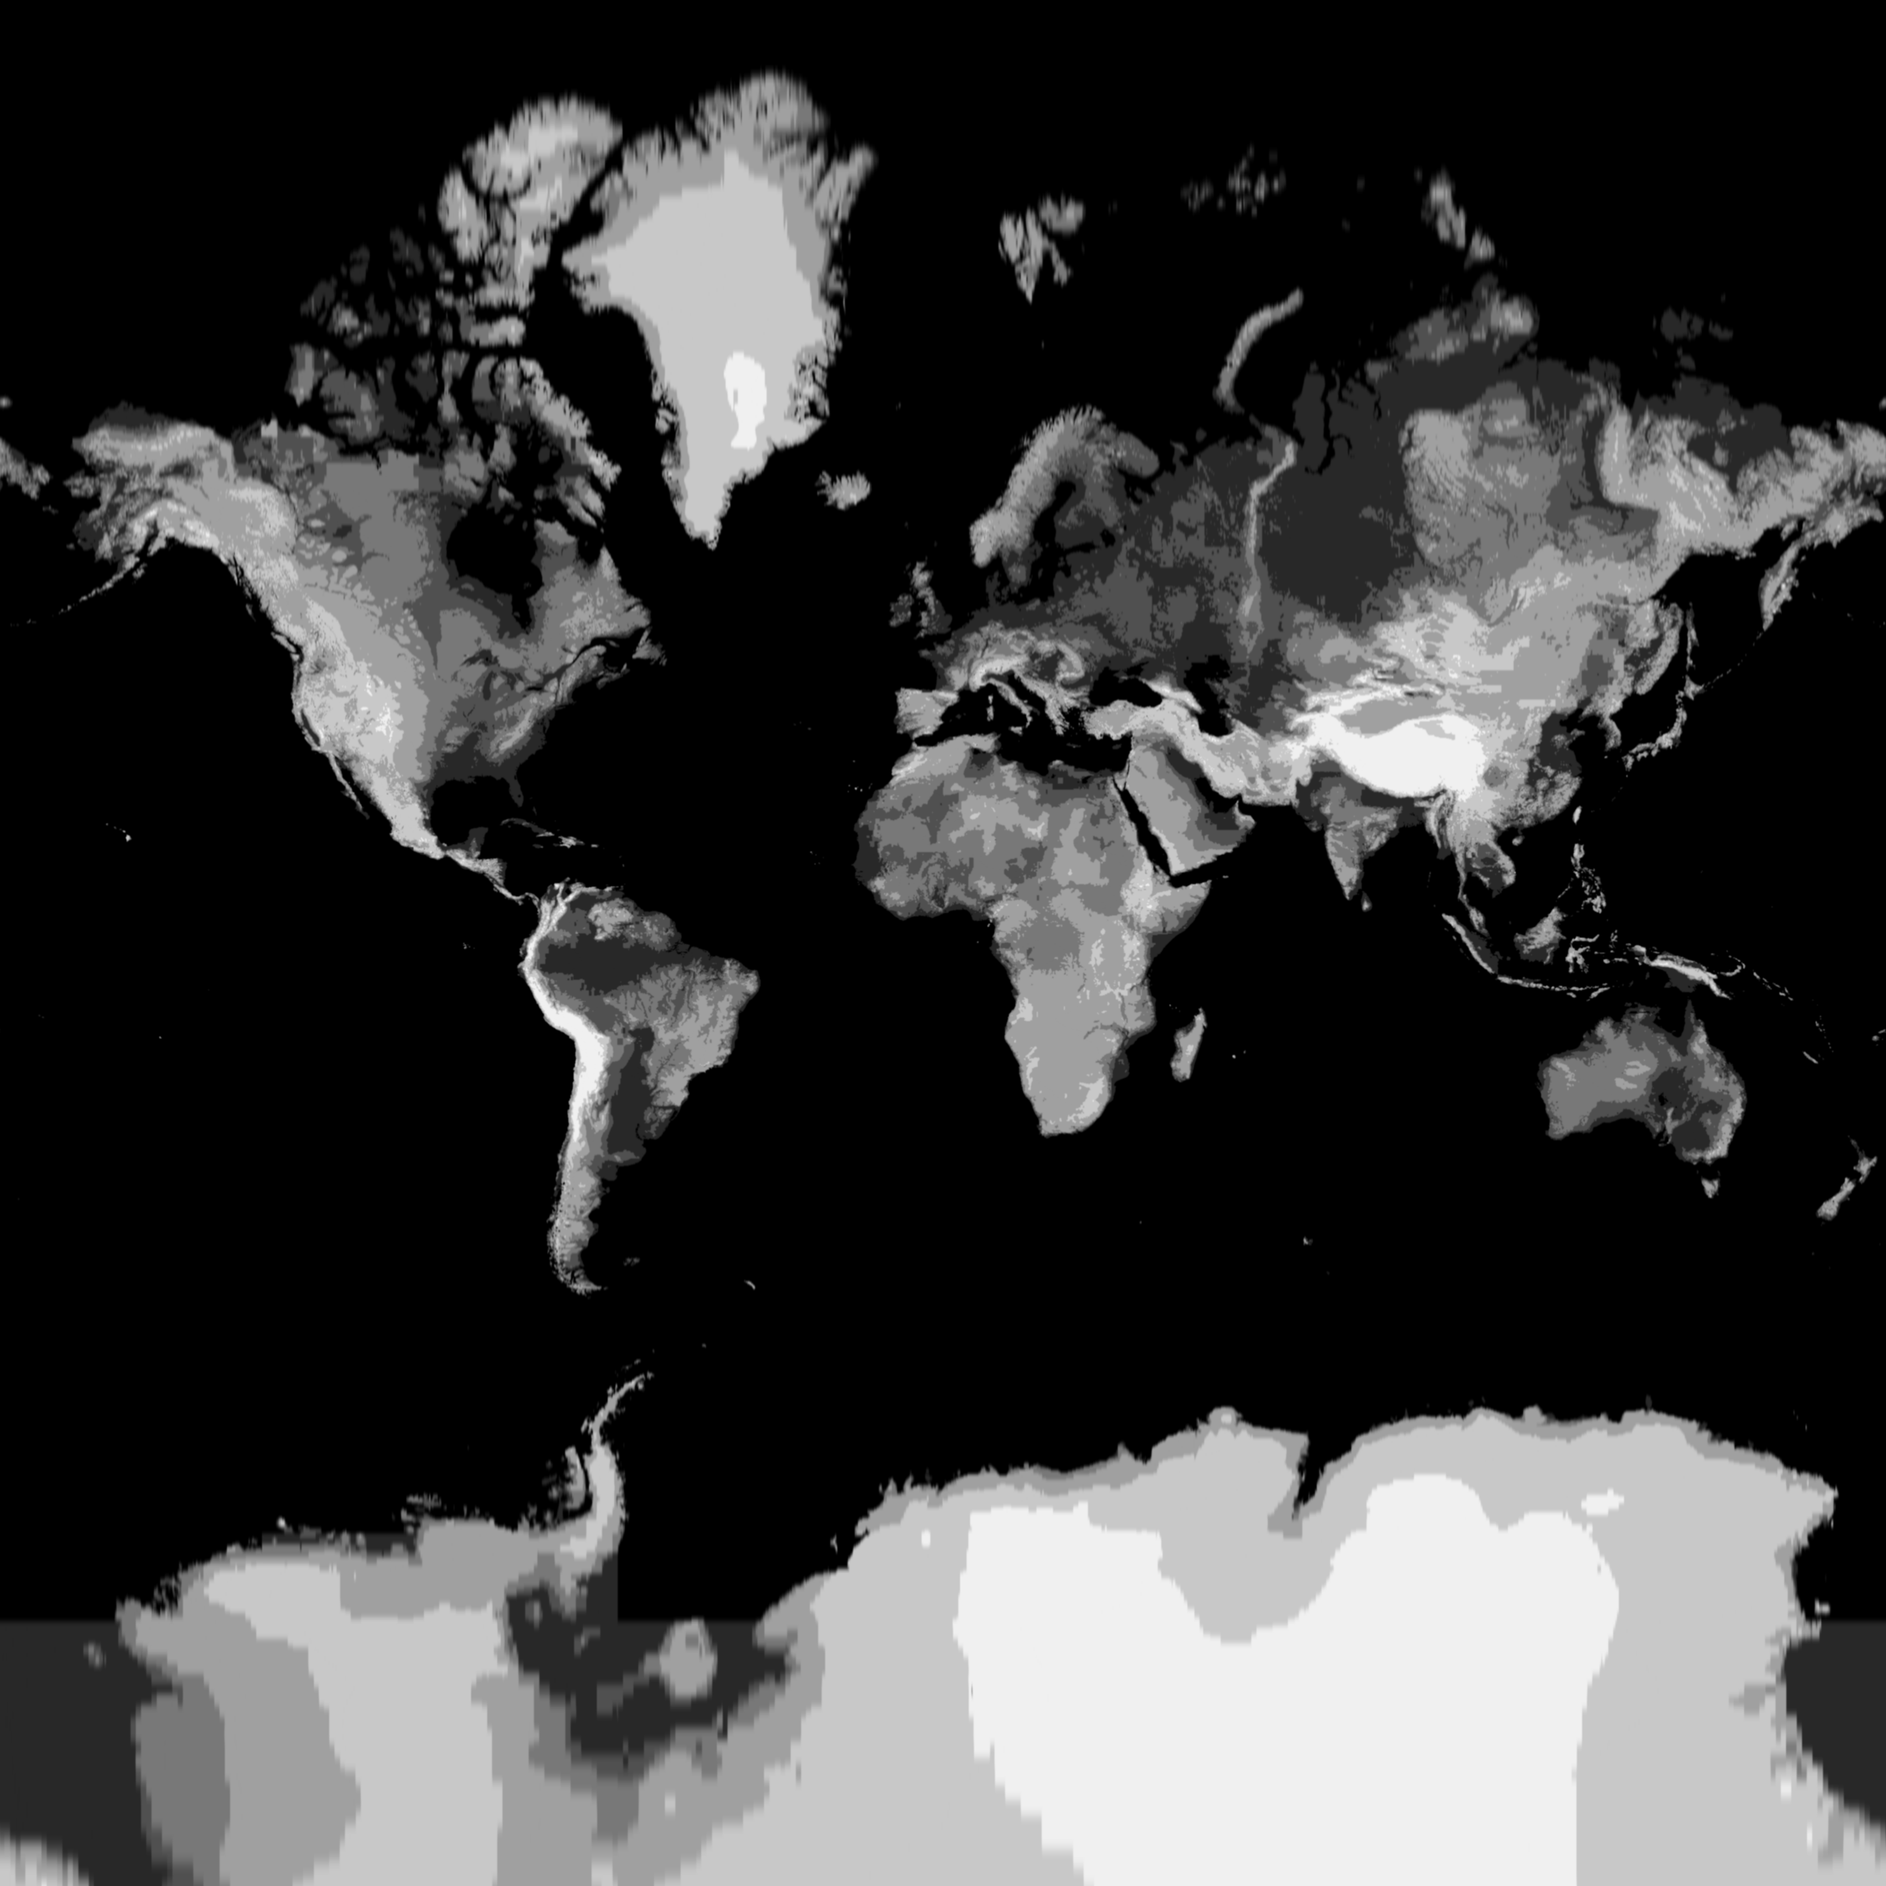
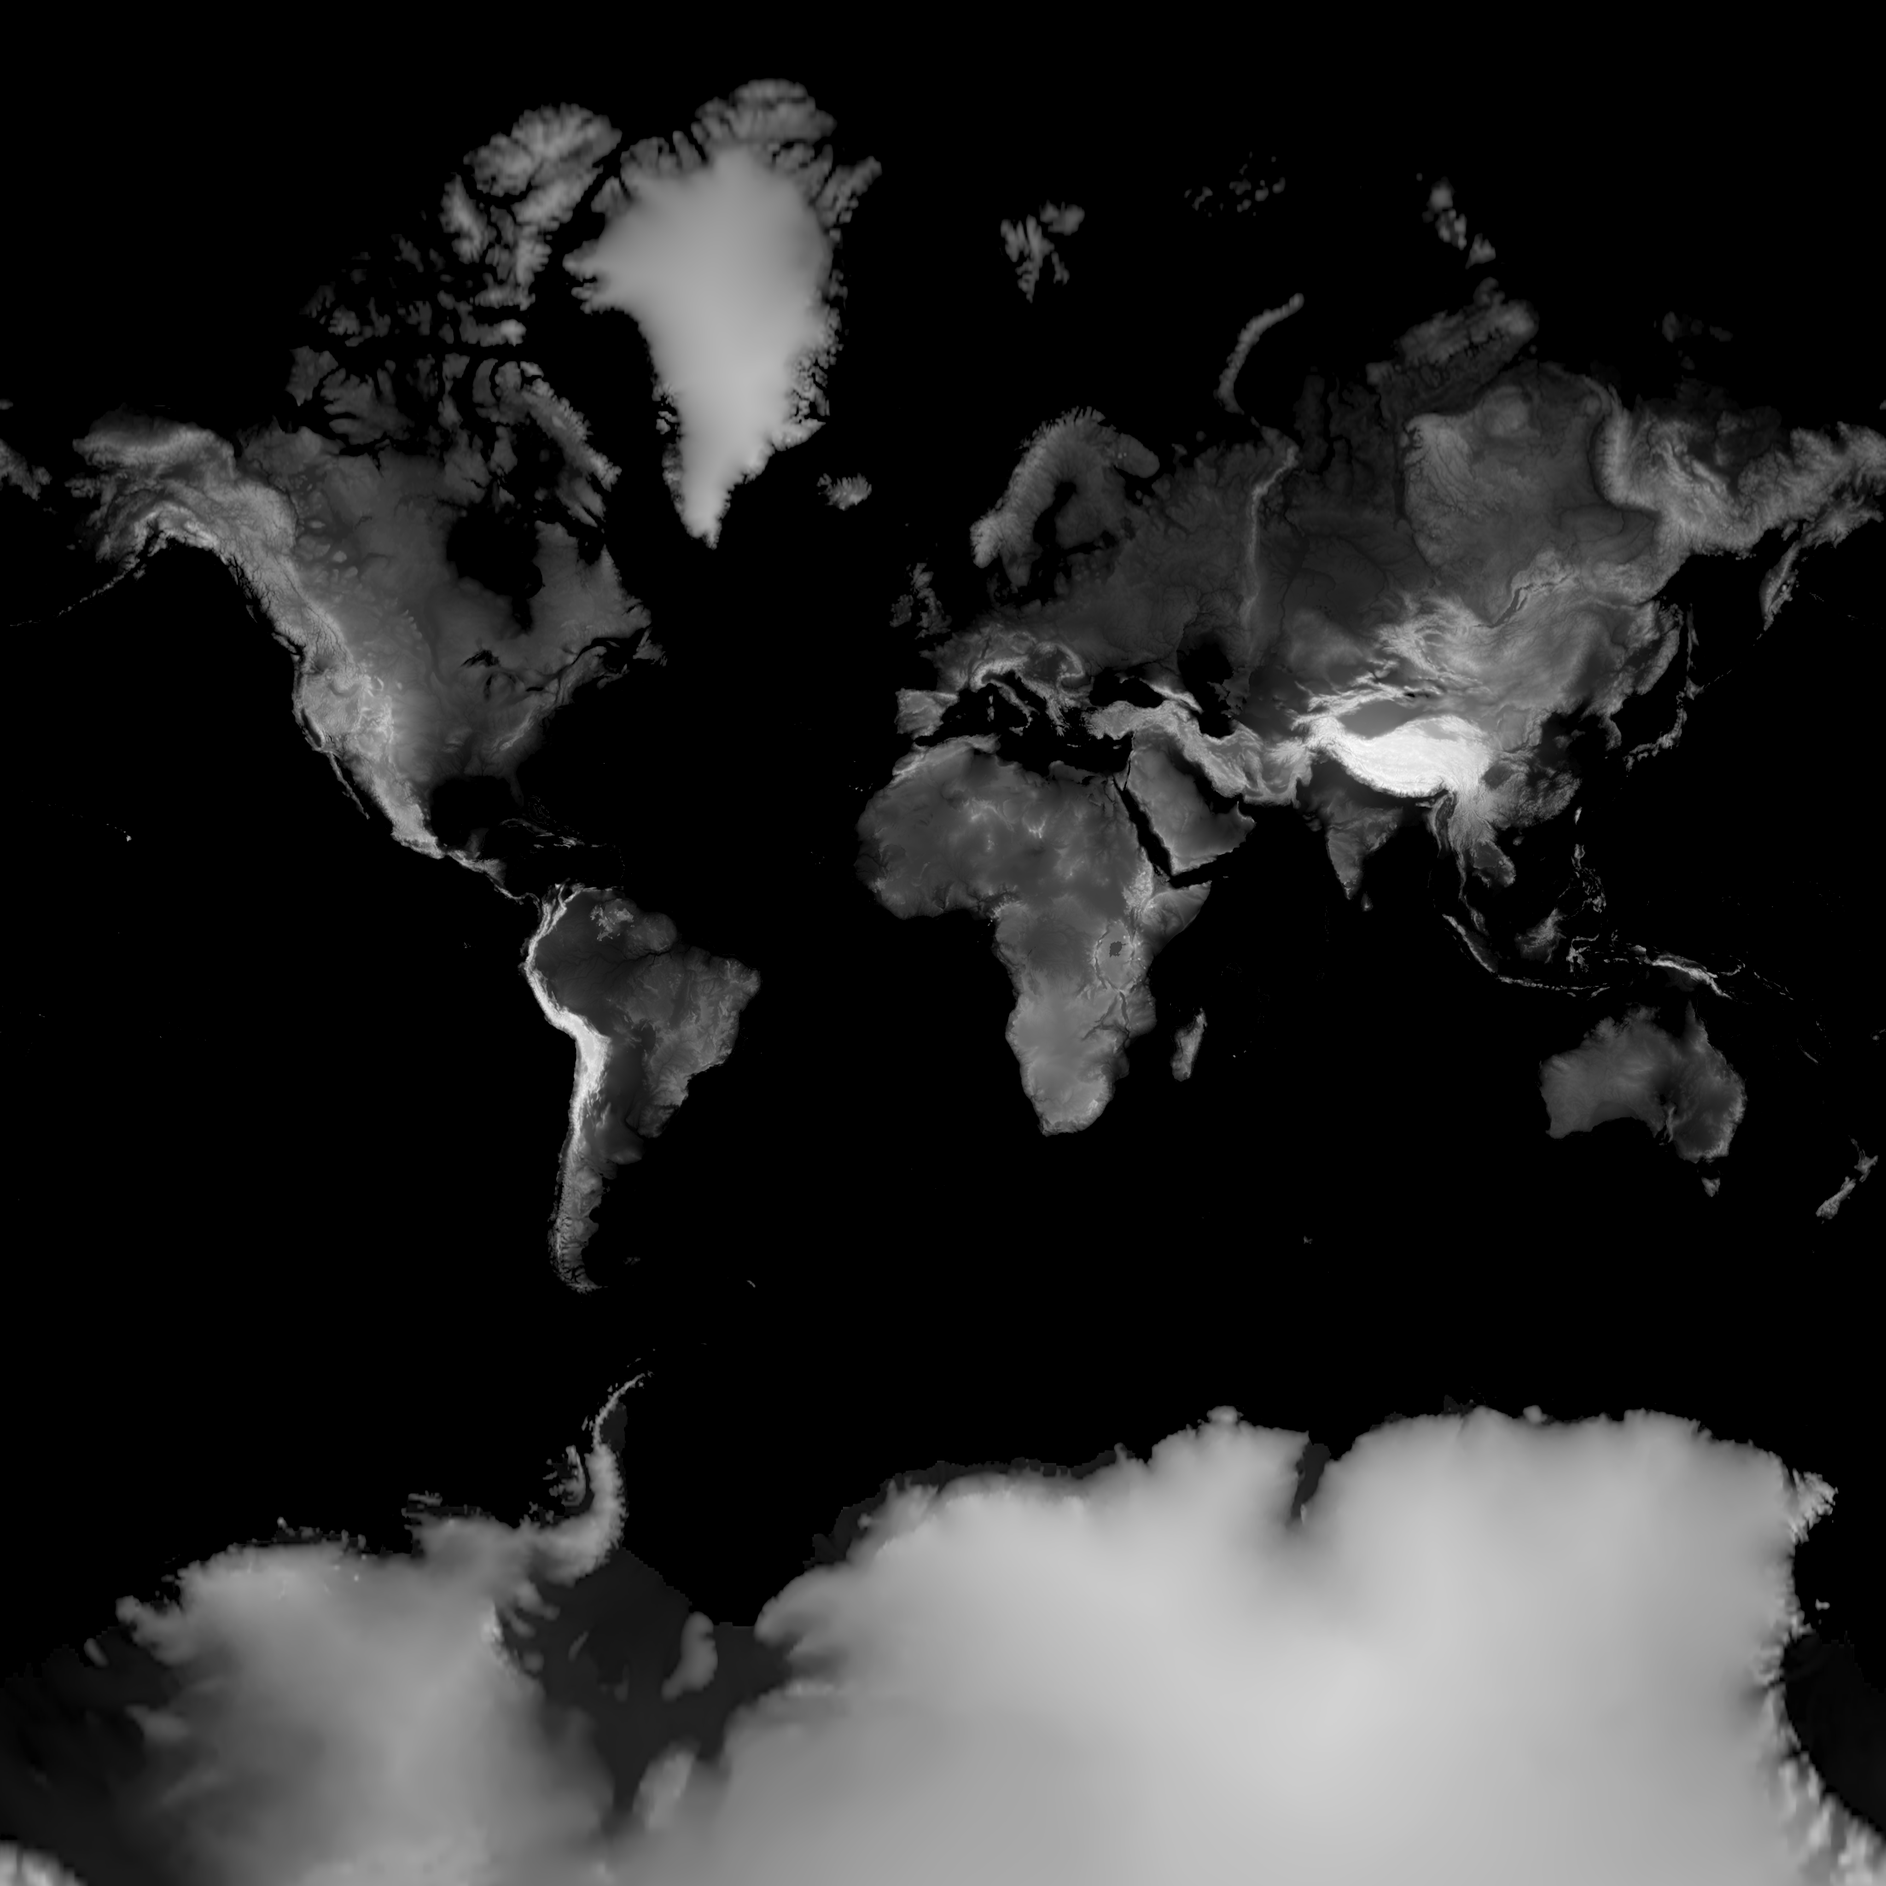
Add files via upload

diff --git a/public/index.html b/public/index.html
@@ -82,14 +82,14 @@
 </head>
 <body>
 <header class="top">
-  <a class="brand" href="/" id="brand"><svg class="logo" width="32" height="32" viewBox="0 0 64 64" fill="none" stroke-linecap="round" stroke-linejoin="round" aria-hidden="true"><circle cx="32" cy="32" r="28.5" stroke="currentColor" stroke-width="2.4"/> <path d="M6.5 25 Q32 31 57.5 25 M6 41 Q32 47 58 41 M32 3.5 Q21 32 32 60.5" stroke="currentColor" stroke-width="1.2" opacity=".3"/> <path d="M32 3.5 l-2.4 5 h4.8 z" fill="currentColor" stroke="none"/> <path d="M30 52 C31.5 46 33.5 42 33.5 37 C33.5 31.5 26 28 18.5 21.5" stroke="currentColor" stroke-width="3.6"/> <path d="M33.3 38 C36 31.5 40 25.5 44.5 19" stroke="currentColor" stroke-width="3.2"/> <path d="M38.6 28.5 C43.5 29 47.5 31.5 49.5 35.5" stroke="currentColor" stroke-width="2.6"/> <circle cx="30" cy="52.5" r="5.2" fill="#9B2F1F" stroke="none"/> <circle cx="17.5" cy="20.5" r="3.9" fill="currentColor" stroke="none"/> <circle cx="46" cy="16.8" r="3.9" fill="var(--logo-bg, #EFE6CF)" stroke="currentColor" stroke-width="2.4"/> <circle cx="50" cy="36.5" r="2.9" fill="currentColor" stroke="none"/></svg> MapHeritage</a>
+  <a class="brand" href="/" id="brand"><svg class="logo" width="30" height="30" viewBox="0 0 64 64" fill="none" stroke-linecap="round" stroke-linejoin="round" aria-hidden="true"><path d="M12 50 L19 14 L32 38 L45 14 L52 50" stroke="currentColor" stroke-width="6"/><circle cx="12" cy="50" r="6.5" fill="#9B2F1F"/></svg> MapHeritage</a>
   <button class="langbtn" type="button" data-lang-toggle>RU</button>
   <nav><a class="hide-sm" href="#story" data-i18n="f.title">How it began</a><a class="hide-sm" href="/plans" data-i18n="pl.title">Plans</a><a class="btn small primary" href="/create" data-i18n="nav.create">Create a map</a></nav>
 </header>
 <section class="hero">
   <div class="hero-head">
     <div class="hero-title"><h1><span data-i18n="hero.t1">Every family has</span> <span data-i18n="hero.t2">its own geography.</span></h1></div>
-    <div class="hero-lead"><p data-i18n="hero.lead"></p>
+    <div class="hero-lead"><p data-i18n="hero.lead" data-fit="reserve"></p>
       <div class="acts"><a class="btn big primary" href="/create" data-i18n="hero.cta">Make your family’s map</a><a class="linkbtn" href="#story" data-i18n="hero.cta2">How it began</a></div></div>
   </div>
 </section>
@@ -124,7 +124,7 @@
   </div></section>
   <section class="final"><div class="wrap"><h2 data-i18n="final.title"></h2><a class="btn big primary" href="/create" data-i18n="hero.cta"></a><p data-i18n="final.note"></p></div></section>
 </main>
-<footer class="sitefoot"><span>© MapHeritage · <a href="/plans" data-i18n="pl.title">Plans</a> · <a href="/impressum" data-i18n="legal.impressum">Impressum</a> · <a href="/datenschutz" data-i18n="legal.privacy">Privacy</a> · <a href="/agb" data-i18n="legal.terms">Terms</a></span><span data-i18n="footer.base">Base map: Natural Earth, ETOPO5 (NOAA)</span></footer>
+<footer class="sitefoot"><span>© MapHeritage · <a href="/plans" data-i18n="pl.title">Plans</a> · <a href="/impressum" data-i18n="legal.impressum">Impressum</a> · <a href="/datenschutz" data-i18n="legal.privacy">Privacy</a> · <a href="/agb" data-i18n="legal.terms">Terms</a></span><span data-i18n="footer.base">Base map: Natural Earth, ETOPO1 (NOAA)</span></footer>
 <script src="/vendor/leaflet/leaflet.js"></script>
 <script src="/assets/i18n.js"></script>
 <script src="/assets/fit.js"></script>

diff --git a/public/plans.html b/public/plans.html
@@ -25,7 +25,7 @@
 </style>
 </head>
 <body>
-<header class="top"><a class="brand" href="/"><svg class="logo" width="32" height="32" viewBox="0 0 64 64" fill="none" stroke-linecap="round" stroke-linejoin="round" aria-hidden="true"><circle cx="32" cy="32" r="28.5" stroke="currentColor" stroke-width="2.4"/> <path d="M6.5 25 Q32 31 57.5 25 M6 41 Q32 47 58 41 M32 3.5 Q21 32 32 60.5" stroke="currentColor" stroke-width="1.2" opacity=".3"/> <path d="M32 3.5 l-2.4 5 h4.8 z" fill="currentColor" stroke="none"/> <path d="M30 52 C31.5 46 33.5 42 33.5 37 C33.5 31.5 26 28 18.5 21.5" stroke="currentColor" stroke-width="3.6"/> <path d="M33.3 38 C36 31.5 40 25.5 44.5 19" stroke="currentColor" stroke-width="3.2"/> <path d="M38.6 28.5 C43.5 29 47.5 31.5 49.5 35.5" stroke="currentColor" stroke-width="2.6"/> <circle cx="30" cy="52.5" r="5.2" fill="#9B2F1F" stroke="none"/> <circle cx="17.5" cy="20.5" r="3.9" fill="currentColor" stroke="none"/> <circle cx="46" cy="16.8" r="3.9" fill="var(--logo-bg, #EFE6CF)" stroke="currentColor" stroke-width="2.4"/> <circle cx="50" cy="36.5" r="2.9" fill="currentColor" stroke="none"/></svg> MapHeritage</a><button class="langbtn" type="button" data-lang-toggle>RU</button><a class="btn small primary" href="/create" data-i18n="nav.create">Create a map</a></header>
+<header class="top"><a class="brand" href="/"><svg class="logo" width="30" height="30" viewBox="0 0 64 64" fill="none" stroke-linecap="round" stroke-linejoin="round" aria-hidden="true"><path d="M12 50 L19 14 L32 38 L45 14 L52 50" stroke="currentColor" stroke-width="6"/><circle cx="12" cy="50" r="6.5" fill="#9B2F1F"/></svg> MapHeritage</a><button class="langbtn" type="button" data-lang-toggle>RU</button><a class="btn small primary" href="/create" data-i18n="nav.create">Create a map</a></header>
 <main>
   <h1 data-i18n="pl.title">Plans</h1>
   <div class="plans">
@@ -36,7 +36,7 @@
   </div>
   <p class="privacy"><b data-i18n="p.title"></b>. <span data-i18n="p.1"></span> <span data-i18n="p.2"></span></p>
 </main>
-<footer class="sitefoot"><span>© MapHeritage · <a href="/plans" data-i18n="pl.title">Plans</a> · <a href="/impressum" data-i18n="legal.impressum">Impressum</a> · <a href="/datenschutz" data-i18n="legal.privacy">Privacy</a> · <a href="/agb" data-i18n="legal.terms">Terms</a></span><span data-i18n="footer.base">Base map: Natural Earth, ETOPO5 (NOAA)</span></footer>
+<footer class="sitefoot"><span>© MapHeritage · <a href="/plans" data-i18n="pl.title">Plans</a> · <a href="/impressum" data-i18n="legal.impressum">Impressum</a> · <a href="/datenschutz" data-i18n="legal.privacy">Privacy</a> · <a href="/agb" data-i18n="legal.terms">Terms</a></span><span data-i18n="footer.base">Base map: Natural Earth, ETOPO1 (NOAA)</span></footer>
 <script src="/assets/i18n.js"></script>
 <script src="/assets/fit.js"></script><script src="/assets/account.js"></script>
 <script src="/assets/plans.js"></script>

diff --git a/public/m.html b/public/m.html
@@ -35,7 +35,7 @@
 </head>
 <body>
 <header class="top">
-  <a class="brand" href="/"><svg class="logo" width="32" height="32" viewBox="0 0 64 64" fill="none" stroke-linecap="round" stroke-linejoin="round" aria-hidden="true"><circle cx="32" cy="32" r="28.5" stroke="currentColor" stroke-width="2.4"/> <path d="M6.5 25 Q32 31 57.5 25 M6 41 Q32 47 58 41 M32 3.5 Q21 32 32 60.5" stroke="currentColor" stroke-width="1.2" opacity=".3"/> <path d="M32 3.5 l-2.4 5 h4.8 z" fill="currentColor" stroke="none"/> <path d="M30 52 C31.5 46 33.5 42 33.5 37 C33.5 31.5 26 28 18.5 21.5" stroke="currentColor" stroke-width="3.6"/> <path d="M33.3 38 C36 31.5 40 25.5 44.5 19" stroke="currentColor" stroke-width="3.2"/> <path d="M38.6 28.5 C43.5 29 47.5 31.5 49.5 35.5" stroke="currentColor" stroke-width="2.6"/> <circle cx="30" cy="52.5" r="5.2" fill="#9B2F1F" stroke="none"/> <circle cx="17.5" cy="20.5" r="3.9" fill="currentColor" stroke="none"/> <circle cx="46" cy="16.8" r="3.9" fill="var(--logo-bg, #EFE6CF)" stroke="currentColor" stroke-width="2.4"/> <circle cx="50" cy="36.5" r="2.9" fill="currentColor" stroke="none"/></svg> MapHeritage</a>
+  <a class="brand" href="/"><svg class="logo" width="30" height="30" viewBox="0 0 64 64" fill="none" stroke-linecap="round" stroke-linejoin="round" aria-hidden="true"><path d="M12 50 L19 14 L32 38 L45 14 L52 50" stroke="currentColor" stroke-width="6"/><circle cx="12" cy="50" r="6.5" fill="#9B2F1F"/></svg> MapHeritage</a>
   <button class="langbtn" type="button" data-lang-toggle>RU</button>
   <div class="acts" id="acts">
     <button class="btn small primary" id="play" type="button" data-i18n="btn.play">Play journey</button>
@@ -51,7 +51,7 @@
 <section class="chron" id="chron" hidden><h2 data-i18n="chronicle">Chronicle</h2><div class="people" id="people"></div></section>
 <div class="cta"><p data-i18n="cta.own">Make a chart of your own family.</p><a class="btn big" href="/create" data-i18n="hero.cta">Create your map</a></div>
 <div class="toast" id="toast" role="status"></div>
-<footer class="sitefoot"><span>© MapHeritage · <a href="/plans" data-i18n="pl.title">Plans</a> · <a href="/impressum" data-i18n="legal.impressum">Impressum</a> · <a href="/datenschutz" data-i18n="legal.privacy">Privacy</a> · <a href="/agb" data-i18n="legal.terms">Terms</a></span><span data-i18n="footer.base">Base map: Natural Earth, ETOPO5 (NOAA)</span></footer>
+<footer class="sitefoot"><span>© MapHeritage · <a href="/plans" data-i18n="pl.title">Plans</a> · <a href="/impressum" data-i18n="legal.impressum">Impressum</a> · <a href="/datenschutz" data-i18n="legal.privacy">Privacy</a> · <a href="/agb" data-i18n="legal.terms">Terms</a></span><span data-i18n="footer.base">Base map: Natural Earth, ETOPO1 (NOAA)</span></footer>
 <script src="/vendor/leaflet/leaflet.js"></script>
 <script src="/assets/i18n.js"></script>
 <script src="/assets/basemap.js"></script>

diff --git a/public/reset.html b/public/reset.html
@@ -14,7 +14,7 @@
 </style>
 </head>
 <body>
-<header class="top"><a class="brand" href="/"><svg class="logo" width="32" height="32" viewBox="0 0 64 64" fill="none" stroke-linecap="round" stroke-linejoin="round" aria-hidden="true"><circle cx="32" cy="32" r="28.5" stroke="currentColor" stroke-width="2.4"/> <path d="M6.5 25 Q32 31 57.5 25 M6 41 Q32 47 58 41 M32 3.5 Q21 32 32 60.5" stroke="currentColor" stroke-width="1.2" opacity=".3"/> <path d="M32 3.5 l-2.4 5 h4.8 z" fill="currentColor" stroke="none"/> <path d="M30 52 C31.5 46 33.5 42 33.5 37 C33.5 31.5 26 28 18.5 21.5" stroke="currentColor" stroke-width="3.6"/> <path d="M33.3 38 C36 31.5 40 25.5 44.5 19" stroke="currentColor" stroke-width="3.2"/> <path d="M38.6 28.5 C43.5 29 47.5 31.5 49.5 35.5" stroke="currentColor" stroke-width="2.6"/> <circle cx="30" cy="52.5" r="5.2" fill="#9B2F1F" stroke="none"/> <circle cx="17.5" cy="20.5" r="3.9" fill="currentColor" stroke="none"/> <circle cx="46" cy="16.8" r="3.9" fill="var(--logo-bg, #EFE6CF)" stroke="currentColor" stroke-width="2.4"/> <circle cx="50" cy="36.5" r="2.9" fill="currentColor" stroke="none"/></svg><span>MapHeritage</span></a><button class="langbtn" type="button" data-lang-toggle>RU</button></header>
+<header class="top"><a class="brand" href="/"><svg class="logo" width="30" height="30" viewBox="0 0 64 64" fill="none" stroke-linecap="round" stroke-linejoin="round" aria-hidden="true"><path d="M12 50 L19 14 L32 38 L45 14 L52 50" stroke="currentColor" stroke-width="6"/><circle cx="12" cy="50" r="6.5" fill="#9B2F1F"/></svg><span>MapHeritage</span></a><button class="langbtn" type="button" data-lang-toggle>RU</button></header>
 <main><div class="auth" id="box"></div></main>
 <footer class="sitefoot"><span>© MapHeritage · <a href="/impressum" data-i18n="legal.impressum">Impressum</a> · <a href="/datenschutz" data-i18n="legal.privacy">Privacy</a> · <a href="/agb" data-i18n="legal.terms">Terms</a></span></footer>
 <script src="/assets/i18n.js"></script>

diff --git a/public/create.html b/public/create.html
@@ -164,7 +164,7 @@
 <body>
 <div class="app" data-view="chat">
   <header class="bar">
-    <a class="brand" href="/" aria-label="MapHeritage" id="brand"><svg class="logo" width="32" height="32" viewBox="0 0 64 64" fill="none" stroke-linecap="round" stroke-linejoin="round" aria-hidden="true"><circle cx="32" cy="32" r="28.5" stroke="currentColor" stroke-width="2.4"/> <path d="M6.5 25 Q32 31 57.5 25 M6 41 Q32 47 58 41 M32 3.5 Q21 32 32 60.5" stroke="currentColor" stroke-width="1.2" opacity=".3"/> <path d="M32 3.5 l-2.4 5 h4.8 z" fill="currentColor" stroke="none"/> <path d="M30 52 C31.5 46 33.5 42 33.5 37 C33.5 31.5 26 28 18.5 21.5" stroke="currentColor" stroke-width="3.6"/> <path d="M33.3 38 C36 31.5 40 25.5 44.5 19" stroke="currentColor" stroke-width="3.2"/> <path d="M38.6 28.5 C43.5 29 47.5 31.5 49.5 35.5" stroke="currentColor" stroke-width="2.6"/> <circle cx="30" cy="52.5" r="5.2" fill="#9B2F1F" stroke="none"/> <circle cx="17.5" cy="20.5" r="3.9" fill="currentColor" stroke="none"/> <circle cx="46" cy="16.8" r="3.9" fill="var(--logo-bg, #EFE6CF)" stroke="currentColor" stroke-width="2.4"/> <circle cx="50" cy="36.5" r="2.9" fill="currentColor" stroke="none"/></svg><span>MapHeritage</span></a>
+    <a class="brand" href="/" aria-label="MapHeritage" id="brand"><svg class="logo" width="30" height="30" viewBox="0 0 64 64" fill="none" stroke-linecap="round" stroke-linejoin="round" aria-hidden="true"><path d="M12 50 L19 14 L32 38 L45 14 L52 50" stroke="currentColor" stroke-width="6"/><circle cx="12" cy="50" r="6.5" fill="#9B2F1F"/></svg><span>MapHeritage</span></a>
     <button class="langbtn" type="button" data-lang-toggle>RU</button>
     <input class="title" id="title" data-i18n-ph="title.ph" placeholder="My family map" maxlength="90" aria-label="Map title">
     <div class="tools">
